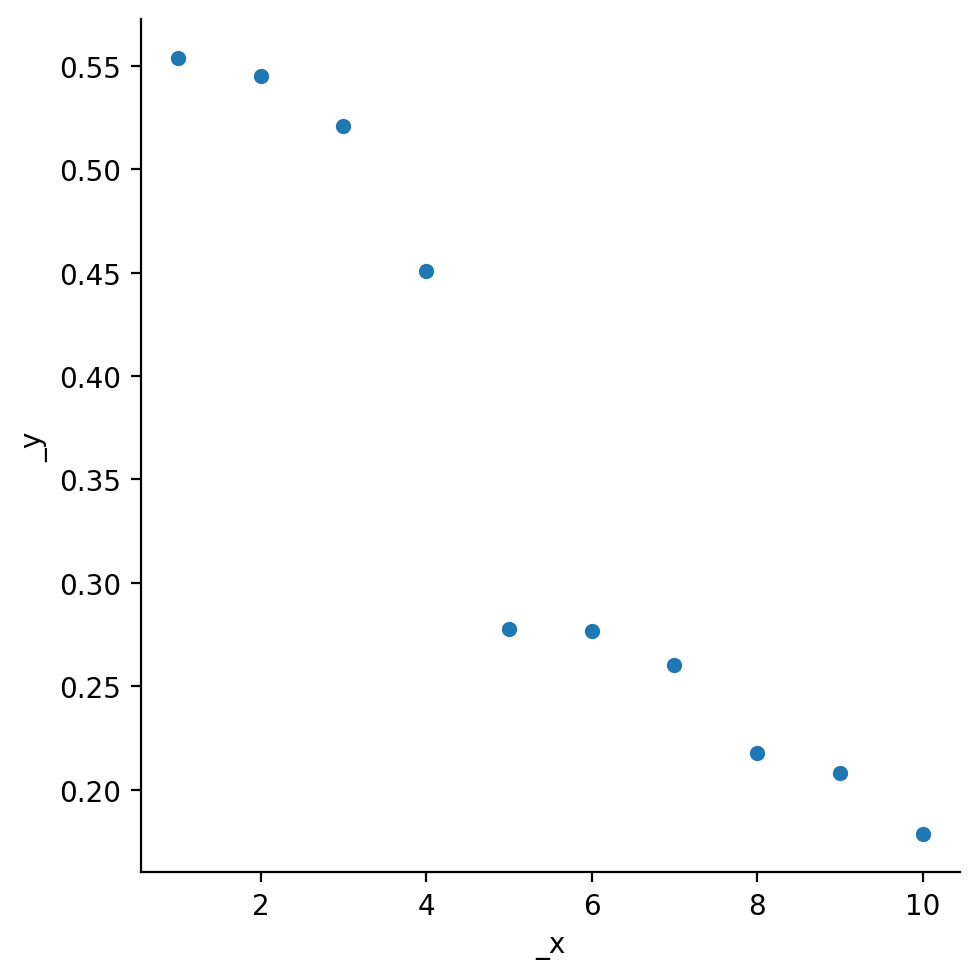
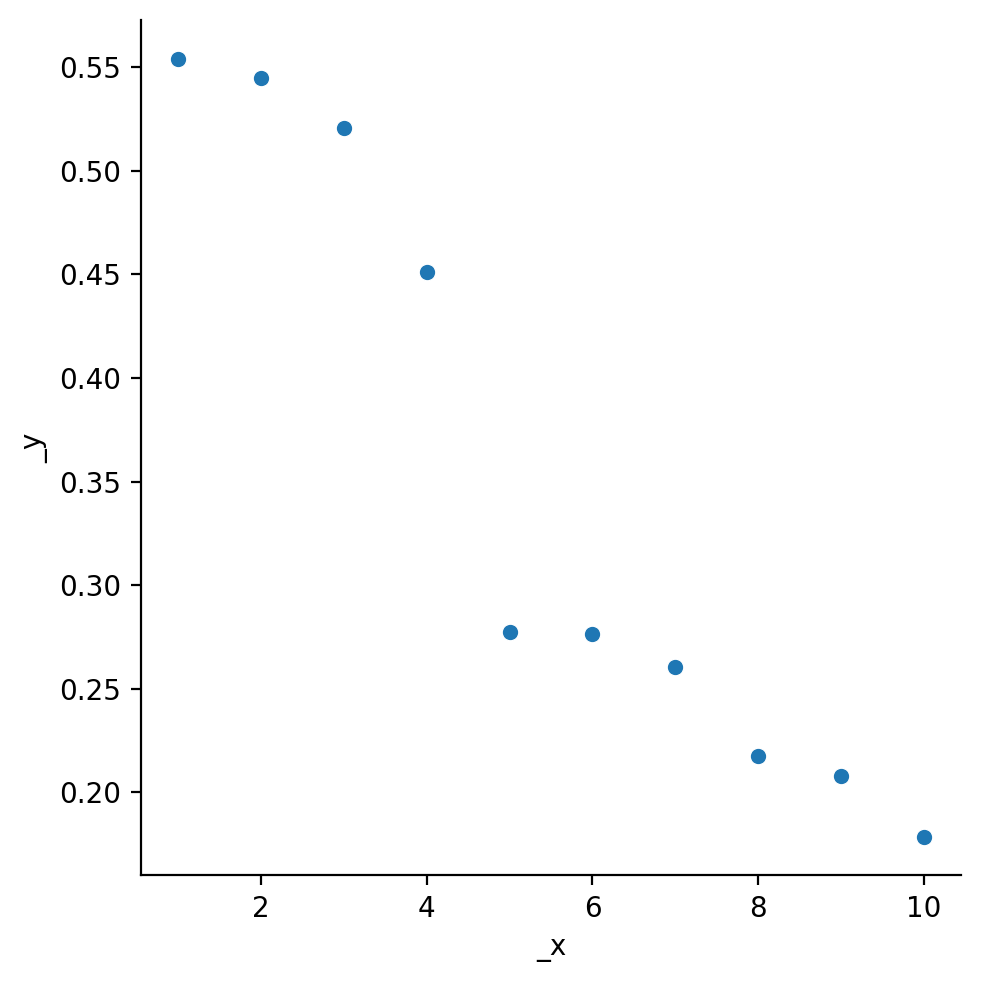
Screencast

diff --git a/static/slides/Lec14.html b/static/slides/Lec14.html
@@ -1,7 +1,7 @@
 <!DOCTYPE html>
 <html lang="" xml:lang="">
   <head>
-    <title>Lec 13 - scikit-learn</title>
+    <title>Lec 14 - scikit-learn</title>
     <meta charset="utf-8" />
     <meta name="author" content="Sta 663 | Spring 2022" />
     <script src="libs/header-attrs-2.11/header-attrs.js"></script>
@@ -11,7 +11,7 @@
     <textarea id="source">
 class: center, middle, inverse, title-slide
 
-# Lec 13 - scikit-learn
+# Lec 14 - scikit-learn
 ## <br/> Statistical Computing and Computation
 ### Sta 663 | Spring 2022
 ### <br/> Dr. Colin Rundel
@@ -1309,6 +1309,9 @@ p.coef_
 ## AttributeError: 'Pipeline' object has no attribute 'coef_'
 ```
 
+--
+
+
 ```python
 p.named_steps["linearregression"].intercept_
 ```
@@ -1351,7 +1354,7 @@ p.steps[0][1].get_feature_names_out()
 
 ## What about step parameters?
 
-By accessing each step we can adjust their parameters if necessary,
+By accessing each step we can adjust their parameters (via `set_params()`),
 
 
 ```python
@@ -1369,6 +1372,9 @@ p.named_steps["linearregression"].set_params(fit_intercept=False)
 ```
 ## LinearRegression(fit_intercept=False)
 ```
+
+--
+
 
 ```python
 p.fit(X = df[["x"]], y = df.y)
@@ -1418,6 +1424,9 @@ p.set_params(linearregression__fit_intercept=True, polynomialfeatures__include_b
 ##                  PolynomialFeatures(degree=4, include_bias=False)),
 ##                 ('linearregression', LinearRegression())])
 ```
+
+--
+
 
 ```python
 p.fit(X = df[["x"]], y = df.y)
@@ -1525,7 +1534,7 @@ grid_search.best_score_
 ```
 
 ```
-## -0.18606542718881763
+## -0.18889099237623408
 ```
 
 ---
@@ -1538,8 +1547,8 @@ grid_search.cv_results_["mean_test_score"]
 ```
 
 ```
-## array([-0.56055647, -0.55414851, -0.54662235, -0.4660496 , -0.28446434,
-##        -0.28374668, -0.26616867, -0.23083559, -0.22367841, -0.18606543])
+## array([-0.55570047, -0.54899208, -0.52750544, -0.45902786, -0.28420232,
+##        -0.28457483, -0.26909304, -0.22828417, -0.22074569, -0.18889099])
 ```
 
 ```python
@@ -1547,7 +1556,7 @@ grid_search.cv_results_["rank_test_score"]
 ```
 
 ```
-## array([10,  9,  8,  7,  6,  5,  4,  3,  2,  1], dtype=int32)
+## array([10,  9,  8,  7,  5,  6,  4,  3,  2,  1], dtype=int32)
 ```
 
 ```python
@@ -1555,8 +1564,8 @@ grid_search.cv_results_["mean_fit_time"]
 ```
 
 ```
-## array([0.0012239 , 0.00113297, 0.00105224, 0.00109162, 0.00105658,
-##        0.00168719, 0.00103779, 0.00115523, 0.00105133, 0.00106945])
+## array([0.00114202, 0.00105   , 0.00100303, 0.00101752, 0.00102839,
+##        0.00109878, 0.00272598, 0.00121269, 0.00111055, 0.00105076])
 ```
 
 ```python
